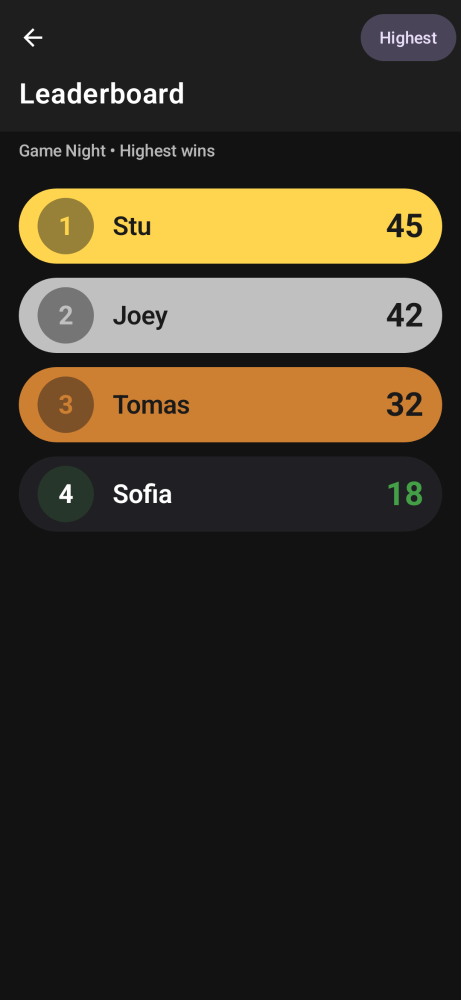
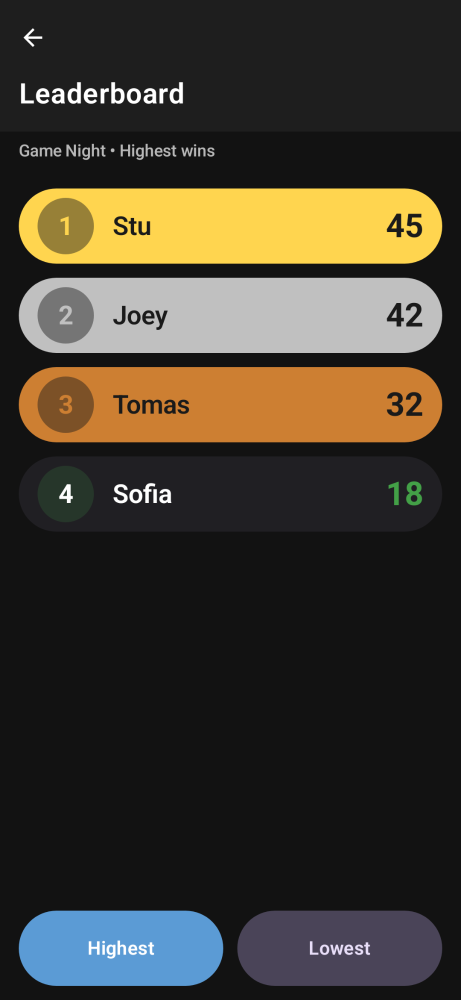
Leaderboard winner mode as bottom Highest/Lowest buttons like History

Changed region(s): [[0.0304, 0.899, 0.4859, 0.992], [0.5163, 0.899, 0.9718, 0.992], [0.7592, 0.0, 1.0, 0.062]]

diff --git a/app/src/main/java/com/scoreorbit/android/ui/LeaderboardScreen.kt b/app/src/main/java/com/scoreorbit/android/ui/LeaderboardScreen.kt
@@ -8,6 +8,8 @@ import androidx.compose.foundation.layout.Arrangement
 import androidx.compose.foundation.layout.Box
 import androidx.compose.foundation.layout.Column
 import androidx.compose.foundation.layout.PaddingValues
+import androidx.compose.foundation.layout.Row
+import androidx.compose.foundation.layout.RowScope
 import androidx.compose.foundation.layout.Spacer
 import androidx.compose.foundation.layout.fillMaxSize
 import androidx.compose.foundation.layout.fillMaxWidth
@@ -19,6 +21,7 @@ import androidx.compose.foundation.shape.CircleShape
 import androidx.compose.material.icons.Icons
 import androidx.compose.material.icons.automirrored.filled.ArrowBack
 import androidx.compose.material.icons.filled.Leaderboard
+import androidx.compose.material3.Button
 import androidx.compose.material3.Card
 import androidx.compose.material3.CardDefaults
 import androidx.compose.material3.ExperimentalMaterial3Api
@@ -89,24 +92,6 @@ fun LeaderboardScreen(game: Game, viewModel: ScoreViewModel) {
                 title = "Leaderboard",
                 viewModel = viewModel,
                 scrollBehavior = scrollBehavior,
-                actions = {
-                    // Winner toggle, bound to the same winMetric as the
-                    // Settings page — flipping it here updates Settings too,
-                    // and vice versa. Shows the current mode; tap to switch.
-                    FilledTonalButton(
-                        onClick = {
-                            viewModel.setWinMetric(
-                                if (lowestWins) WinMetric.HIGHEST else WinMetric.LOWEST
-                            )
-                        },
-                        contentPadding = PaddingValues(horizontal = 16.dp, vertical = 8.dp),
-                    ) {
-                        Text(
-                            if (lowestWins) "Lowest" else "Highest",
-                            style = MaterialTheme.typography.titleSmall,
-                        )
-                    }
-                },
             )
         },
     ) { paddingValues ->
@@ -166,6 +151,42 @@ fun LeaderboardScreen(game: Game, viewModel: ScoreViewModel) {
                         }
                     }
                 }
+            }
+            // Winner mode at bottom, mirroring the History Undo/Redo row:
+            // current mode filled, tap either to switch. Same winMetric as
+            // the Settings page, so both stay in sync either direction.
+            Row(
+                modifier = Modifier
+                    .fillMaxWidth()
+                    .padding(horizontal = 16.dp, vertical = 12.dp),
+                horizontalArrangement = Arrangement.spacedBy(12.dp),
+            ) {
+                @Composable
+                fun ModeButton(label: String, metric: WinMetric, selected: Boolean) {
+                    val buttonModifier = Modifier
+                        .weight(1f)
+                        .height(64.dp)
+                    val content: @Composable RowScope.() -> Unit = {
+                        Text(label, style = MaterialTheme.typography.titleMedium)
+                    }
+                    if (selected) {
+                        Button(
+                            onClick = { viewModel.setWinMetric(metric) },
+                            shape = MaterialTheme.shapes.extraLarge,
+                            modifier = buttonModifier,
+                            content = content,
+                        )
+                    } else {
+                        FilledTonalButton(
+                            onClick = { viewModel.setWinMetric(metric) },
+                            shape = MaterialTheme.shapes.extraLarge,
+                            modifier = buttonModifier,
+                            content = content,
+                        )
+                    }
+                }
+                ModeButton("Highest", WinMetric.HIGHEST, selected = !lowestWins)
+                ModeButton("Lowest", WinMetric.LOWEST, selected = lowestWins)
             }
         }
     }
